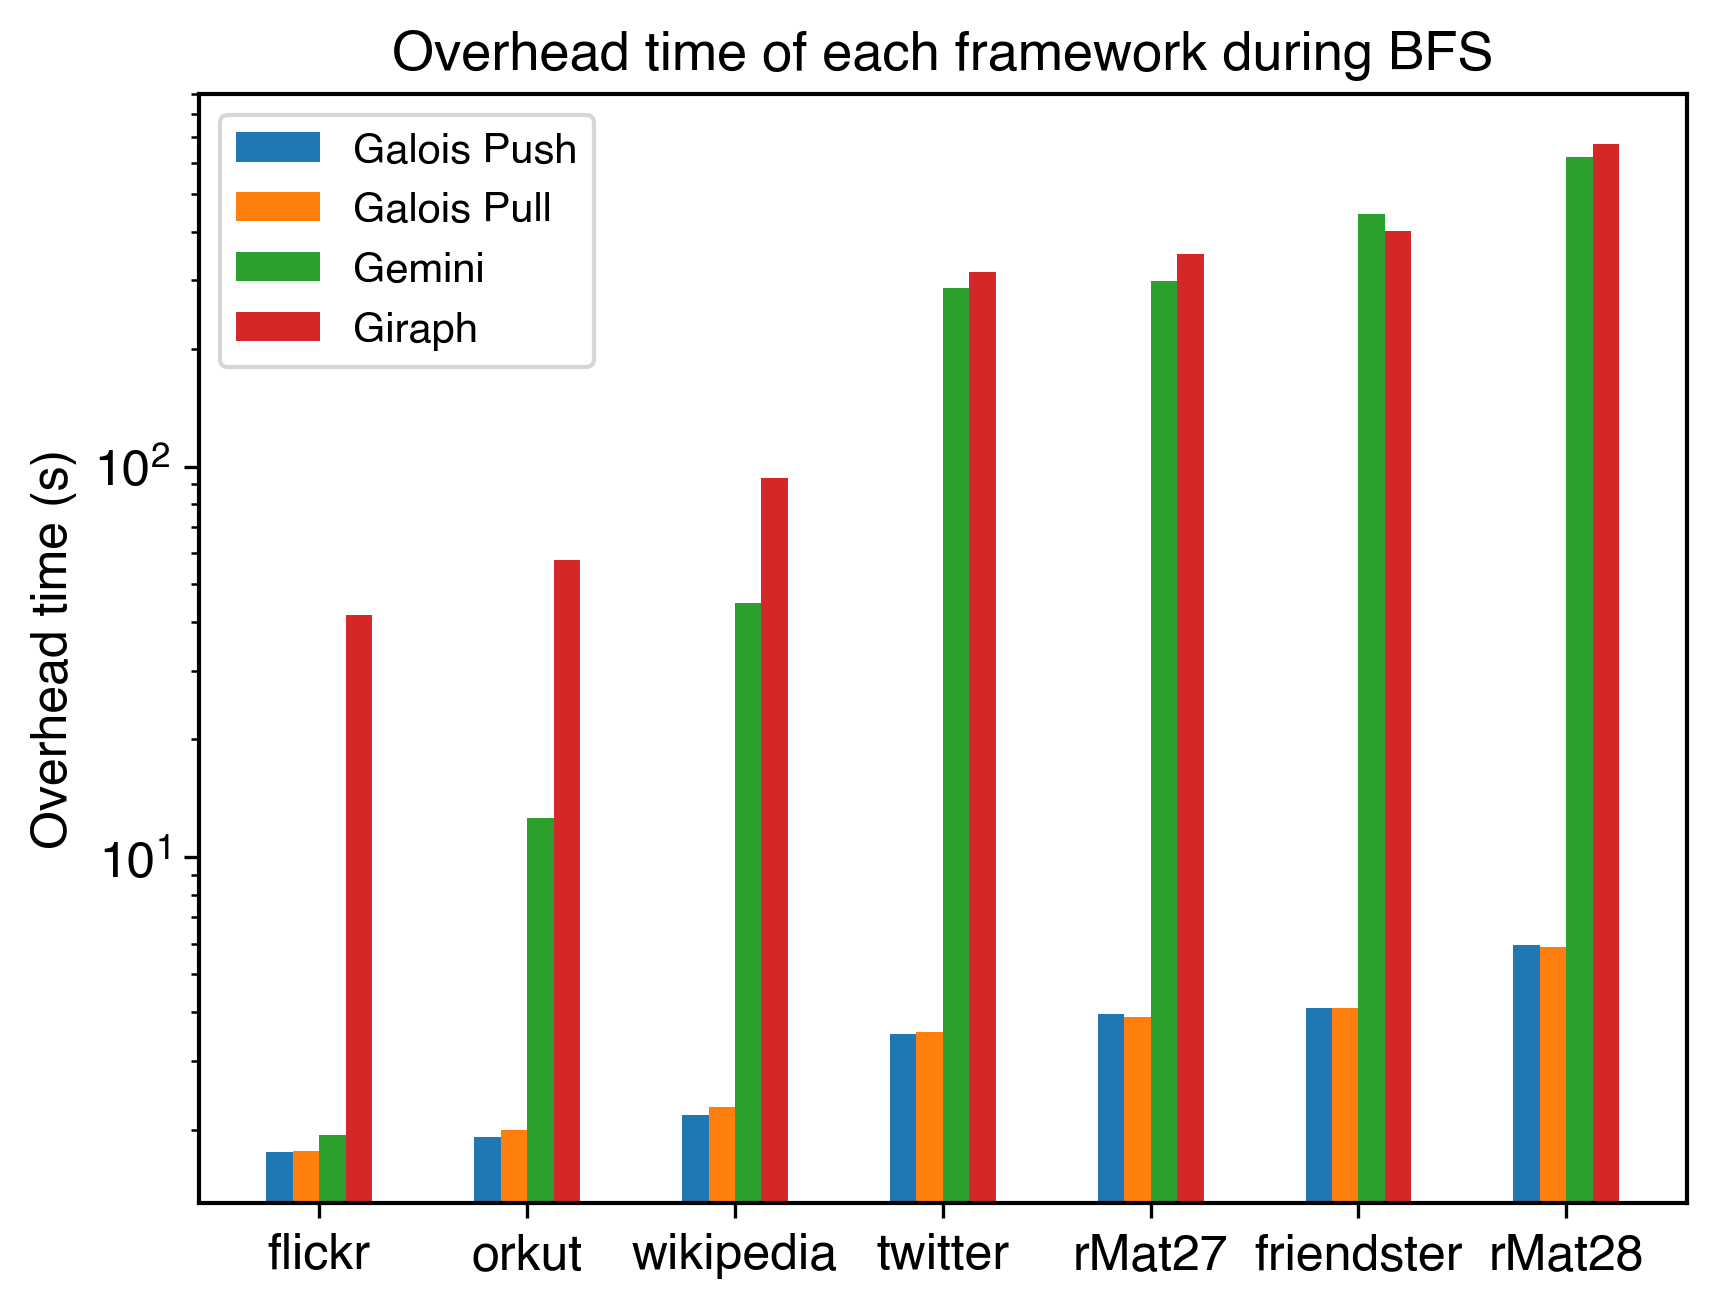
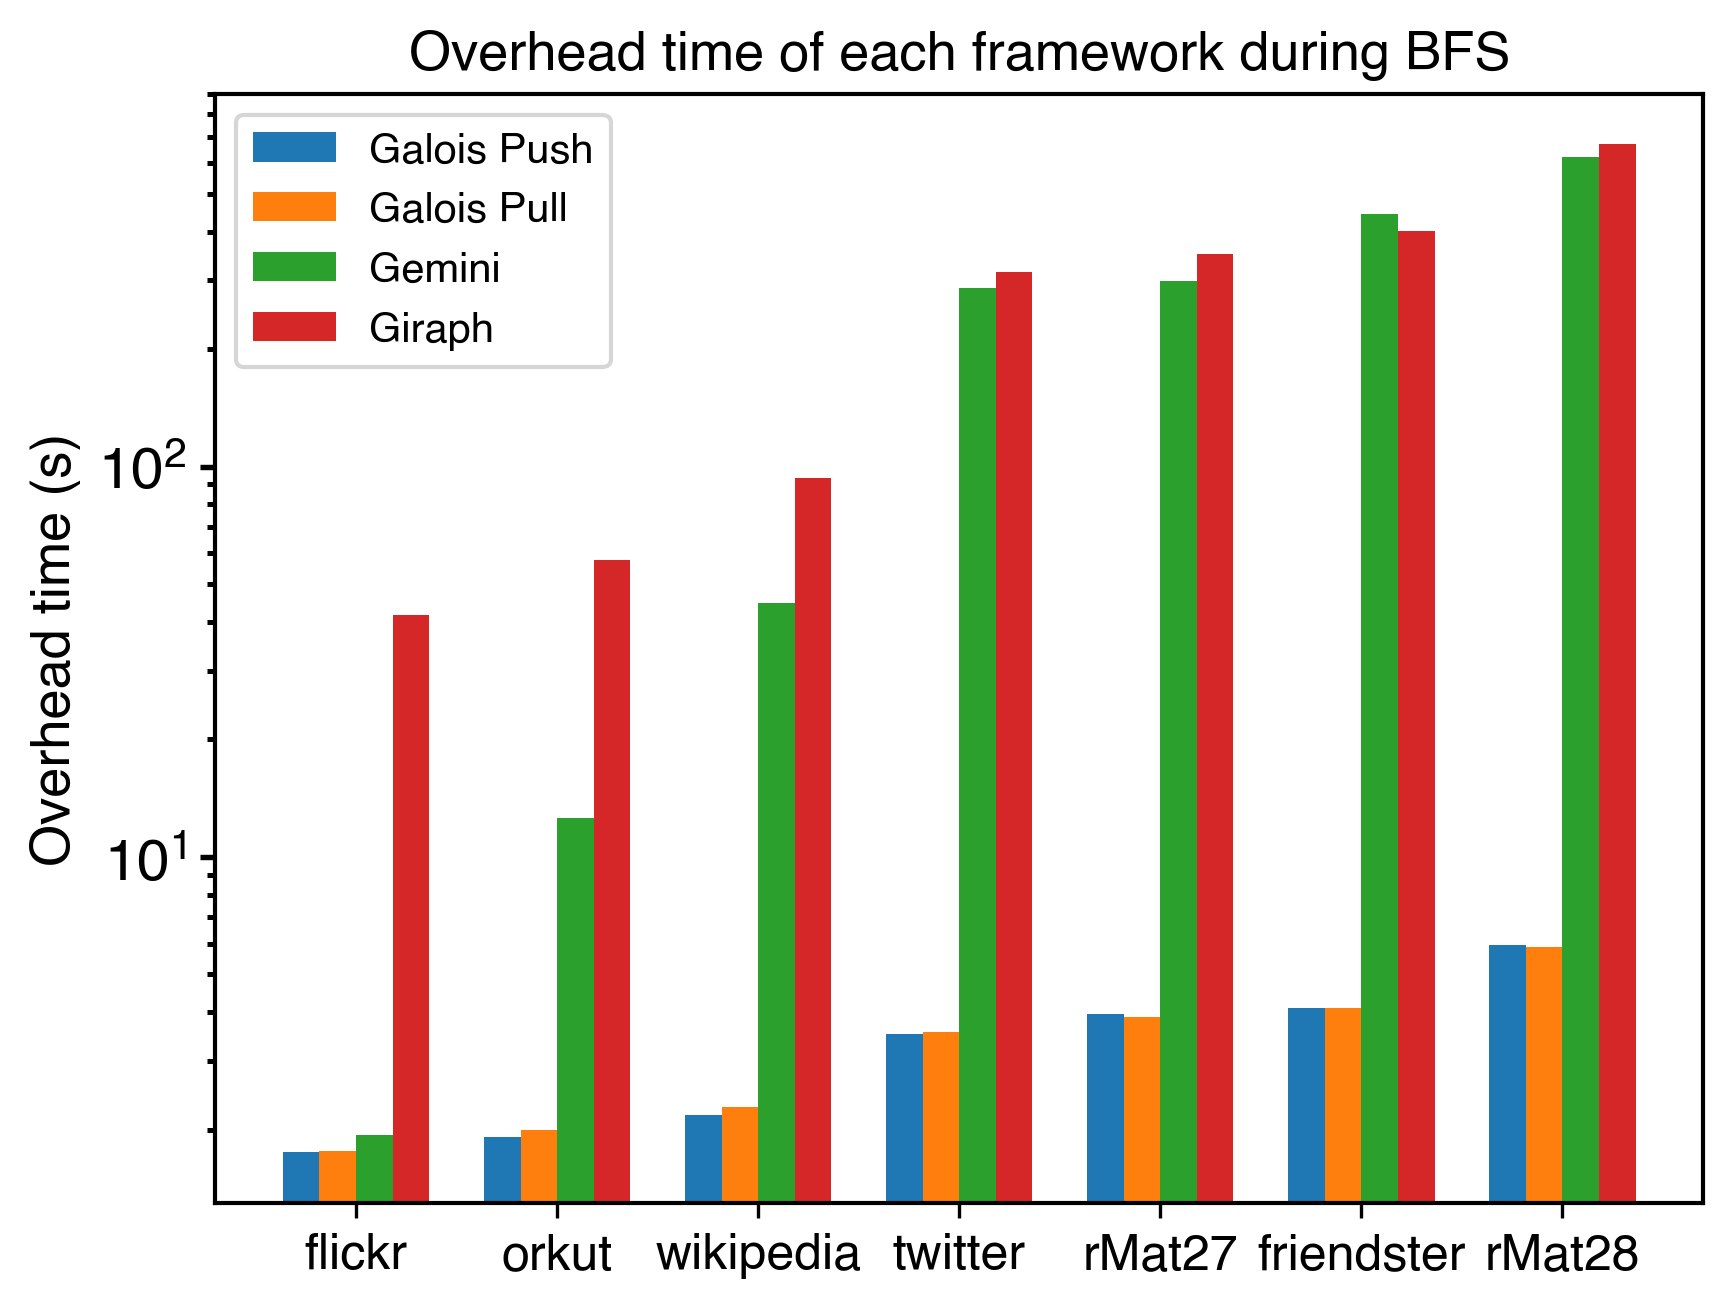
updated plots, made the bars more pronounced and increased readability

diff --git a/plots/makeplots.py b/plots/makeplots.py
@@ -7,7 +7,7 @@ from plotFunctions import *
 distributed = True
 singleNode = False
 
-sssp = False
+sssp = True
 bfs = True
 pr = True
 
@@ -101,11 +101,11 @@ if distributed and ( sssp or bfs or pr or calcTimes or execTimes or overheads):
 
 	#BFS
 	if bfs or calcTimes:
-		grouped_bar_plot(graphs, dist_frameworks_bfs.values(), calcTimeBFS_distributed, yErrs=yErrCalcBFS_distributed, title='BFS distributed', yLabel='Calculation time (s)', saveToFile="distributedBFS_calcTime.png")
+		grouped_bar_plot(graphs, dist_frameworks_bfs.values(), calcTimeBFS_distributed, yErrs=yErrCalcBFS_distributed, yLabel='Calculation time (s)', saveToFile="distributedBFS_calcTime.png")
 
 	#PR
 	if pr or calcTimes:
-		grouped_bar_plot(graphs, dist_frameworks_pr.values(), calcTimePR_distributed, yErrs=yErrCalcPR_distributed, title='PR distributed', yLabel='Calculation time (s)', saveToFile="distributedPR_calcTime.png")
+		grouped_bar_plot(graphs, dist_frameworks_pr.values(), calcTimePR_distributed, yErrs=yErrCalcPR_distributed, yLabel='Calculation time (s)', saveToFile="distributedPR_calcTime.png")
 
 
 	## EXEC TIME
@@ -115,11 +115,11 @@ if distributed and ( sssp or bfs or pr or calcTimes or execTimes or overheads):
 
 	#BFS
 	if bfs or execTimes:
-		grouped_bar_plot(graphs, dist_frameworks_bfs.values(), execTimeBFS_distributed, yErrs=yErrExecBFS_distributed, title='BFS distributed', yLabel='Execution time (s)', saveToFile="distributedBFS_execTime.png")
+		grouped_bar_plot(graphs, dist_frameworks_bfs.values(), execTimeBFS_distributed, yErrs=yErrExecBFS_distributed, yLabel='Execution time (s)', saveToFile="distributedBFS_execTime.png")
 
 	#PR
 	if pr or calcTimes:
-		grouped_bar_plot(graphs, dist_frameworks_pr.values(), execTimePR_distributed, yErrs=yErrExecPR_distributed, title='PR distributed', yLabel='Calculation time (s)', saveToFile="distributedPR_execTime.png")
+		grouped_bar_plot(graphs, dist_frameworks_pr.values(), execTimePR_distributed, yErrs=yErrExecPR_distributed, yLabel='Calculation time (s)', saveToFile="distributedPR_execTime.png")
 
 	## OVERHEAD
 	#SSSP

diff --git a/plots/makedata.py b/plots/makedata.py
@@ -429,16 +429,23 @@ for g in graphs:
 
 
 if False:
+    maxs = []
     for g in graphs:
-        if g == 'flickr' or g == 'orkut':
+        if g == "flickr":
             continue
-        tmp = speedupGaloisBFS[g]
+        tmp = speedupGaloisPRPull[g]
         print(g)
         last = 1
         xs = []
         for k in tmp:
             xs.append(k)
         xs.sort()
+        tmps = []
         for k in xs:
-            print(k, tmp[k], tmp[k] / tmp[last])
+            tmps.append(tmp[k])
+            if(tmp[k] > 1):
+                print(k, tmp[k])
+        maxs.append(max(tmps))
+        #print("inter: ", (tmp[32] - tmp[16])/(32-16) * (24-16) + tmp[16])
             #last = k
+    print(maxs)

diff --git a/plots/plotFunctions.py b/plots/plotFunctions.py
@@ -14,7 +14,7 @@ def grouped_bar_plot(group_names, legend_names, values, yErrs=None, width=0.35, 
 
 
 	if scaleFactor == None:
-		scaleFactor = group_count / len(legend_names) + 1
+		scaleFactor = (len(legend_names) + 1.5) * width
 
 	fig, ax = plt.subplots()
 
